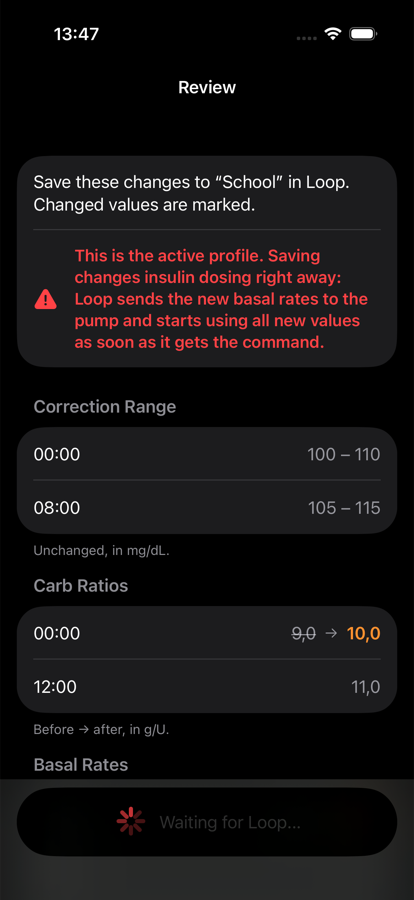
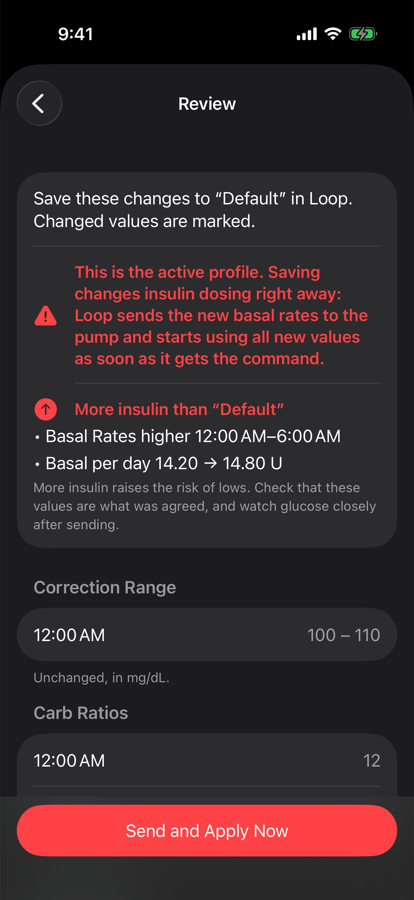
Describe the Remote Profiles screens as they are in LoopFollow, including scheduled switches

diff --git a/docs/remote/remote-profiles.md b/docs/remote/remote-profiles.md
@@ -1,14 +1,14 @@
 ## Remote Profiles
 
-With **Profiles** in *LoopFollow* you can look at the therapy profiles saved in *Loop* or *Trio*, choose which one is in use, and create, change, rename or delete profiles from the caregiver phone.
+With **Profiles** in *LoopFollow* you can look at the therapy profiles saved in *Loop* or *Trio*, choose which one is in use, create, change, rename or delete profiles, and change the weekly scheduled switches between them, all from the caregiver phone.
 
 !!! danger "Profiles change insulin dosing"
-    A profile holds the settings *Loop* or *Trio* uses to decide how much insulin to give. Activating a profile, or changing the profile that is in use, changes insulin dosing **right away**.
+    A profile holds the settings *Loop* or *Trio* uses to decide how much insulin to give. Activating a profile, changing the profile that is in use, or a scheduled switch changes insulin dosing **right away**.
 
-    This page explains how the feature works. It is not medical advice. Agree on each profile, and on any change to one, with the care team before you use it, and agree with the person using *Loop* or *Trio* (or their family) on who may make remote changes.
+    This page explains how the feature works. It is not medical advice. Agree on each profile, on any change to one, and on the scheduled switches with the care team before you use them, and agree with the person using *Loop* or *Trio* (or their family) on who may make remote changes.
 
 !!! info "In development"
-    Remote profile editing is new. It needs a *LoopFollow* version that includes it, and a *Loop* or *Trio* version that accepts the profile commands. See [What you need](#what-you-need).
+    Remote profile editing is new. It needs a *LoopFollow* version that includes it, and a *Loop* or *Trio* version with therapy profiles that accepts the profile commands. See [What you need](#what-you-need).
 
 ### Quick Access
 
@@ -21,6 +21,7 @@ With **Profiles** in *LoopFollow* you can look at the therapy profiles saved in 
 * [Rename a profile](#rename-a-profile)
 * [Delete a profile](#delete-a-profile)
 * [The review screen](#the-review-screen)
+* [Scheduled switches](#scheduled-switches)
 * [Replies, waiting and refusals](#replies-waiting-and-refusals)
 
 - - -
@@ -28,13 +29,14 @@ With **Profiles** in *LoopFollow* you can look at the therapy profiles saved in 
 ## Words used on this page
 
 * **Profile**: a named set of four settings. A profile could be called *School*, *Weekend* or *Sport*. Overrides, temp targets and the pre-meal range are **not** part of a profile.
-* **Correction range** (called *glucose targets* in *Trio*): the glucose range the app aims for. It is set as a low and a high value for each time of day.
+* **Correction range** (a single **glucose target** in *Trio*): the glucose level the app aims for. In *Loop* it is a low and a high value for each time of day; in *Trio* it is one value for each time of day.
 * **Carb ratio**: how many grams of carbohydrate one unit of insulin covers, in g/U. A smaller number means more insulin for the same meal.
 * **Basal rate**: the steady background insulin the pump gives through the day, in units per hour (U/hr). The basal rates are also stored on the pump.
 * **Insulin sensitivity factor (ISF)**: how far one unit of insulin is expected to lower glucose, in mg/dL/U or mmol/L/U. A smaller number means more insulin for the same correction.
-* **Time segment**: each setting can change during the day. Each row starts at a time (always on a full or half hour) and lasts until the next row. The first row always starts at 00:00 (midnight).
+* **Time segment**: each setting can change during the day. Each row starts at a time (always on a full or half hour) and lasts until the next row. The first row always starts at midnight.
 * **Active profile**: the profile *Loop* or *Trio* is dosing with right now. There is always exactly one.
 * **Default**: the profile that always exists. Before any other profile is made, Default is the active one and holds the settings that were already in the app. Default can be edited but not renamed or deleted.
+* **Scheduled switch**: a weekly start of a profile, for example *School starts every Monday at 7:00 AM*. The profile stays active until the next start.
 
 - - -
 
@@ -48,16 +50,16 @@ With **Profiles** in *LoopFollow* you can look at the therapy profiles saved in 
 
 ### For *Loop*
 
-* A *Loop* build with the therapy profiles feature. Today that is *Loop* `next-dev` with the **Profile Save & Load** customization (`profiles`), added with the Loop and Learn Customization Select script.
-    * An older build of the customization (for example on *Loop* 3.14) lets *LoopFollow* show and activate profiles, but not create, edit, rename or delete them.
+* A *Loop* version with therapy profiles (Settings → Profiles). Therapy profiles are not yet part of a released *Loop* version; they are proposed for *Loop*'s development branch.
+    * A *Loop* built with the older **Profile Save & Load** customization (added with the Loop and Learn Customization Select script) lets *LoopFollow* show and activate profiles, but not create, edit, rename or delete them, or change scheduled switches. See [Profiles Customization](https://www.loopandlearn.org/loop-features-in-development/#profiles).
 * Remote commands set up and working in *Loop* (the same set-up as remote carbs and bolus).
 * A pump connected in *Loop*, and a **maximum basal rate** set in *Loop*'s Therapy Settings.
 
-*Loop* tells *LoopFollow* which profile commands it accepts. If something is missing, the **Profiles** button is gray. Tapping it shows *Profiles Not Available* and the reason.
+*Loop* tells *LoopFollow* which profile commands it accepts. If it accepts none, the **Profiles** button is gray. Tapping it shows *Profiles Not Available* and the reason.
 
 ### For *Trio*
 
-* A *Trio* version with **Therapy Profiles** (under Settings → Therapy Settings → Therapy Profiles).
+* A *Trio* version with **Therapy Profiles** (Settings → Therapy Settings → Therapy Profiles). Therapy profiles are in *Trio*'s development branch (`dev`) since November 2026.
 * *Trio* Remote Control enabled on the *Trio* phone, with the same shared secret in *LoopFollow*.
 * A pump connected in *Trio*.
 
@@ -68,7 +70,7 @@ The **Profiles** button only appears on the *Trio* Remote Control screen when *T
 
 ### Limits from the app
 
-*Loop* and *Trio* upload the limits *LoopFollow* must follow: the allowed values for each setting, the basal rates the pump supports, the maximum basal rate and the glucose unit. Without these limits, *LoopFollow* only shows the profiles and explains why they can't be changed. The limits appear once a pump and a maximum basal rate are set up in *Loop* or *Trio*.
+*Loop* and *Trio* upload the limits *LoopFollow* must follow: the allowed values for each setting, the basal rates the pump supports, the maximum basal rate, the most time segments, and the glucose unit. Without these limits, *LoopFollow* only shows the profiles and explains why they can't be changed. *Loop* shares the limits once a pump and a maximum basal rate are set up in it.
 
 - - -
 
@@ -76,13 +78,24 @@ The **Profiles** button only appears on the *Trio* Remote Control screen when *T
 
 Open the *Loop* or *Trio* remote screen and tap **Profiles**.
 
-| Profile list | A profile |
+| Profile list | Scheduled switches |
 |:--:|:--:|
-| ![list of profiles](img/lf-profiles-list.png){width="300"} | ![a profile's values](img/lf-profiles-preview.png){width="300"} |
+| ![list of profiles](img/lf-profiles-list.png){width="300"} | ![scheduled switches under the profile list](img/lf-profiles-scheduled.png){width="300"} |
 
-* The list shows every profile. The one in use is marked **Active**.
+* **Profiles** lists every profile. The one in use is marked **Active**.
 * Below the list is the time *Loop* or *Trio* last uploaded the profiles to *Nightscout*. *LoopFollow* shows what was uploaded, so a change made on the looper's phone a moment ago may not be visible yet.
-* Tap a profile to see its correction range, carb ratios, basal rates (with the total per day) and insulin sensitivities, in the units the app uses.
+* **Scheduled Switches** shows the weekly starts. See [Scheduled switches](#scheduled-switches).
+* **New Profile** creates a profile. See [Create a profile](#create-a-profile).
+
+Tap a profile to see its correction range (or glucose target), carb ratios, basal rates (with the total per day) and insulin sensitivities, in the units the app uses. Glucose values in mmol/L are shown with one decimal.
+
+| A profile that is not active | Actions at the bottom |
+|:--:|:--:|
+| ![a profile's values with a more-insulin warning](img/lf-profiles-preview.png){width="300"} | ![rename and delete buttons](img/lf-profiles-preview-actions.png){width="300"} |
+
+If the profile would give more insulin than the active profile at some time of day, a red **More insulin than "..."** box lists where: for example higher basal rates, lower carb ratios, lower insulin sensitivities or a lower correction range, and the basal total per day.
+
+**Edit** (top right) opens the editor. **Rename Profile** and **Delete Profile** are at the bottom. **Activate Profile** is the large button.
 
 - - -
 
@@ -90,9 +103,12 @@ Open the *Loop* or *Trio* remote screen and tap **Profiles**.
 
 Activating a profile makes it the one *Loop* or *Trio* doses with.
 
-1. Tap the profile in the list to review its values.
-1. Tap **Activate Profile** and confirm.
-1. Confirm your identity with Face ID, Touch ID or your passcode. Only then is the command sent.
+1. Tap the profile in the list and check its values.
+1. Tap **Activate Profile**. A confirmation says what will happen. If scheduled switches are set up, it also says until when the profile stays active, and it repeats any more-insulin warning.
+1. Tap **Activate**, then confirm your identity with Face ID, Touch ID or your passcode. Only then is the command sent.
+
+![confirmation before activating a profile](img/lf-profiles-activate-confirm.png){width="300"}
+{align=center}
 
 On the looper's phone, the app checks the profile again. It then writes the profile's basal rates to the pump, and only after the pump has accepted them does it start using all four settings. If any step fails, for example because the pump can't be reached, nothing changes and you get a reply saying why.
 
@@ -104,11 +120,13 @@ The active profile's name is shown on the *Loop* status screen and on the *Trio*
 
 1. In the profile list, tap **New Profile**.
 1. Enter a name. A name can be up to 32 characters. It can't be "Default", can't contain a period (.), can't start with $, and must differ from the other profiles' names.
-1. Under **Start From**, choose the profile to copy. It starts as a copy of the active profile.
+1. Under **Start From**, choose the profile to copy. It starts as a copy of the active profile. Choosing another profile discards changes you made below.
 1. Change the values you have agreed on (see [Edit a profile](#edit-a-profile) for how the editor works).
-1. Tap **Review**, check everything, then tap **Send** and confirm your identity.
+1. Tap **Review**, check everything, then tap **Send to *Loop*** (or *Trio*), confirm, and confirm your identity.
 
 A new profile is only saved. Dosing does not change until the profile is activated.
+
+There can be at most 20 profiles, Default included. At 20, **New Profile** is unavailable until a profile is deleted.
 
 ![creating a new profile](img/lf-profiles-new.png){width="300"}
 {align=center}
@@ -119,34 +137,44 @@ A new profile is only saved. Dosing does not change until the profile is activat
 
 Open a profile and tap **Edit**.
 
-![editing a profile](img/lf-profiles-edit.png){width="300"}
-{align=center}
-
-* Each setting is a list of times. Tap a row to change its start time or value, tap **Add Time** to add a row, and swipe left on a row to remove it.
-* The values you can choose come from the limits *Loop* or *Trio* uploaded. Basal rates only offer the steps the pump supports, up to the maximum basal rate.
-* Values the app allows but considers unusual are shown in **orange** with "Unusual value. Double-check it with the care team's plan."
-* Values that are not allowed are shown in red, and the change can't be sent until they are fixed.
-* Under the list you see how many times are used out of the maximum.
-* Tap **Review** to continue. Nothing is sent before the review.
-
 !!! danger "Editing the active profile changes dosing immediately"
-    If you edit the profile that is active, *Loop* or *Trio* sends the new basal rates to the pump and starts using **all** the new values as soon as it gets the command. There is no separate "activate" step.
+    If you edit the profile that is active, a red warning is shown at the top. *Loop* or *Trio* sends the new basal rates to the pump and starts using **all** the new values as soon as it gets the command. There is no separate "activate" step.
 
     Editing a profile that is not active only changes the saved profile. Dosing does not change until that profile is activated.
+
+| The editor for the active profile | Changing a basal rate |
+|:--:|:--:|
+| ![editing the active profile](img/lf-profiles-edit.png){width="300"} | ![changing a basal rate with the picker](img/lf-profiles-edit-basal.png){width="300"} |
+
+* Each setting is a list of times. Tap a row to open pickers for its start time and value, and tap the row again to close them. Tap **Add Time** to add a row, and swipe left on a row to remove it. The first row always starts at midnight and can't be removed.
+* For *Trio*, each time has one **Glucose Target** value instead of a low and a high value.
+* The values you can choose come from the limits *Loop* or *Trio* uploaded. Under each setting you see what is allowed, and how many times are used out of the maximum. Basal rates only offer the steps the pump supports, up to the maximum basal rate, and show the total per day.
+* Values the app allows but considers unusual are shown in **orange** with *Unusual value. Double-check it.*
+* Values that are not allowed are shown in red with *Outside what is allowed. Change this value before sending.* Everything that must be fixed is also listed under **Fix Before Sending**, and **Review** stays unavailable until it is fixed.
+* Tap **Review** to continue. Nothing is sent before the review.
+
+| An unusual value | A *Trio* glucose target |
+|:--:|:--:|
+| ![an unusual carb ratio shown in orange](img/lf-profiles-edit-unusual.png){width="300"} | ![editing a Trio glucose target](img/lf-profiles-trio-target.png){width="300"} |
 
 - - -
 
 ## Rename a profile
 
-Open the profile and tap **Rename Profile**, enter the new name and tap **Review**. The values stay the same, and an active profile stays active. The Default profile can't be renamed.
+Open the profile, tap **Rename Profile**, enter the new name and tap **Review**. The review says *Rename "..." to "..."*. The values stay the same, so dosing does not change, and an active profile stays active. Scheduled switches follow the new name. The Default profile can't be renamed.
 
 - - -
 
 ## Delete a profile
 
-Open the profile, tap **Delete Profile** and confirm, then confirm your identity. A deleted profile can't be brought back from *LoopFollow*.
+Open the profile, tap **Delete Profile**, tap **Delete** in the confirmation, then confirm your identity. A deleted profile can't be brought back from *LoopFollow*.
 
-The active profile and the Default profile can't be deleted. To delete the active profile, first activate another one.
+If the profile is used by scheduled switches, the confirmation says so: those starts are removed too, and at those times the profile that was active before stays active until the next scheduled start.
+
+The active profile and the Default profile can't be deleted, so **Delete Profile** is not offered for them. To delete the active profile, first activate another one.
+
+![confirmation before deleting a profile](img/lf-profiles-delete-confirm.png){width="300"}
+{align=center}
 
 - - -
 
@@ -154,15 +182,57 @@ The active profile and the Default profile can't be deleted. To delete the activ
 
 Every create, edit and rename goes through **Review** before anything is sent.
 
-![reviewing a change to the active profile](img/lf-profiles-review-active.png){width="300"}
-{align=center}
+| Top of the review | The changes |
+|:--:|:--:|
+| ![reviewing a change to the active profile](img/lf-profiles-review-active.png){width="300"} | ![old and new values side by side](img/lf-profiles-review-diff.png){width="300"} |
 
-* A summary says what will happen: create, save changes to, or rename the profile.
-* If it is the **active** profile, a red warning says that dosing changes right away, and the button reads **Send and Apply Now**.
-* Each setting lists its times. Values that change are shown as old value, crossed out, then an arrow and the new value in orange. Unchanged settings say *Unchanged*.
-* **Sent to *Loop*** (or *Trio*) shows the name, the version of the profile the change is based on, the units, and **Exact values** with the data that will be sent.
+* A summary says what will happen: create the profile from the one it starts from, save changes to it, or rename it.
+* If it is the **active** profile, a red warning says that dosing changes right away, and the button reads **Send and Apply Now** in red. Otherwise it reads **Send to *Loop*** (or *Trio*).
+* If the change gives more insulin at some time of day, a red **More insulin than "..."** box lists where, compared with the profile before the change (or the profile a new one starts from).
+* Each setting lists its times. Changed values are shown as the old value crossed out, an arrow and the new value. A new value that gives more insulin is red; other changes are orange. Unchanged settings say *Unchanged*.
+* **Sent to *Loop*** (or *Trio*) shows the name, the old name for a rename, the version of the profile the change is based on, the units, and **Exact values** with the data that will be sent.
 * **Can't Send** lists anything that must be fixed first.
-* A remote command must fit in one push notification. If a profile has too many time segments to fit, *LoopFollow* says so and won't send it. Use fewer time segments, or make the change on the looper's phone.
+* A remote command must fit in one push notification. The footer shows the size of the command. If a profile has too many time segments to fit, *LoopFollow* says so and won't send it. Use fewer time segments, or make the change on the looper's phone.
+
+When you tap the send button, a confirmation repeats what will happen. After **Send**, *LoopFollow* first loads the profiles again from *Nightscout*. If the profile changed, disappeared, or became active or inactive while you were editing, nothing is sent and you are asked to review it again. Otherwise you confirm your identity, and the command is sent.
+
+- - -
+
+## Scheduled switches
+
+A scheduled switch starts a profile at the same time every week, for example *School* every Monday at 7:00 AM and *Weekend* every Saturday at 9:00 AM. The profile stays active until the next start, also when someone switches profile by hand in between.
+
+!!! warning "Scheduled switches change dosing without anyone looking"
+    At each start, *Loop* or *Trio* switches profile by itself, also when nobody is looking at the phone. Agree on the schedule, and on each profile in it, with the care team.
+
+The list of starts is under **Scheduled Switches** in the profile list (see [View profiles](#view-profiles)). Each start shows its day and time, the profile, and until when that profile stays active. Paused starts are gray. Below the list, *LoopFollow* says which start runs next and how many are paused. The times are in the profile's time zone; when that differs from the caregiver phone's, a note says so.
+
+### Pause or resume a start
+
+Swipe left on a start and tap **Pause** (or **Resume**). A review shows the change and the week after saving. Tap **Send to *Loop*** (or *Trio*), confirm, and confirm your identity.
+
+A paused start does not run until it is resumed. Nothing switches when a start is resumed; it runs again at its next time.
+
+| Swipe to pause | Review of the change |
+|:--:|:--:|
+| ![swiping left on a start shows Pause](img/lf-profiles-swipe-pause.png){width="300"} | ![review of a paused start](img/lf-profiles-scheduled-review.png){width="300"} |
+
+### Change the starts
+
+Tap **Edit Scheduled Switches**.
+
+| The starts | One start |
+|:--:|:--:|
+| ![the scheduled switches editor](img/lf-profiles-scheduled-editor.png){width="300"} | ![editing one start](img/lf-profiles-start-editor.png){width="300"} |
+
+* Tap a start to change its profile, day and time, to pause it, or to delete it with **Delete Start**. You can also swipe left on a start to delete it.
+* Tap **Add Start** to add one. There can be at most 14 starts.
+* Only one profile can start at a given day and time. Problems are listed under **Fix Before Sending**.
+* Tap **Review**. The review lists the changes (added, changed, removed, paused, resumed), the week after saving, and a red warning for each profile that would start and gives more insulin than Default.
+
+Saving the list switches nothing right away. The new starts run at their next times.
+
+Scheduled switches can only be viewed, not changed, when *Loop* or *Trio* hasn't said it accepts changes to them, or when *LoopFollow* could not read the uploaded list completely. A note under the list says why.
 
 - - -
 
@@ -170,7 +240,9 @@ Every create, edit and rename goes through **Review** before anything is sent.
 
 Only one profile command can be pending at a time. While *LoopFollow* waits, the button shows *Waiting for Loop...* (or *Trio*), and other profile buttons show *Another Profile Command Is Pending*.
 
-**Replies** come back as a notification and an alert, for example *Profile Activated*, *Profile Saved*, *Profile Deleted*, or *Profile Not Activated* / *Not Saved* / *Not Deleted* with the reason. *Loop* and *Trio* also post a note in *Nightscout*, and show a notification on the looper's phone.
+**Replies** come back as a notification and an alert: *Profile Activated*, *Profile Saved*, *Profile Deleted*, *Scheduled Switches Saved*, or *Profile Not Activated* / *Not Saved* / *Not Deleted* / *Scheduled Switches Not Saved* with the reason. *Loop* and *Trio* also post a note in *Nightscout*, and show a notification on the looper's phone.
+
+**Reply lost**: if the reply push doesn't arrive but the profiles *Loop* or *Trio* uploads to *Nightscout* show the change, *LoopFollow* reports the command as done and says that the reply did not arrive.
 
 **No reply**: if no reply arrives within 3 minutes, *LoopFollow* shows *No Reply From Loop* (or *Trio*). The change may still have been made. Pump communication and push notifications can be slow. Wait for the profile list to update before you send the command again.
 
@@ -178,17 +250,18 @@ Only one profile command can be pending at a time. While *LoopFollow* waits, the
 
 **Common refusals** (nothing is changed when a command is refused):
 
-* *The profile changed on the phone after it was uploaded.* Someone changed the profile on the looper's phone, or another caregiver changed it, after *LoopFollow* loaded it. *LoopFollow* closes the screen and loads the profiles again. Open the profile, check the current values, and make the change again if it is still needed.
-* *No profile named ...*: the profile was renamed or deleted on the phone.
-* *A profile named ... already exists*: choose another name.
-* *The active profile cannot be deleted* / *The Default profile cannot be deleted.*
+* The profile, or the list of scheduled switches, changed on the looper's phone after it was uploaded. Someone changed it on the looper's phone, or another caregiver changed it, after *LoopFollow* loaded it. *LoopFollow* closes the screen and loads the profiles again. Open the profile, check the current values, and make the change again if it is still needed.
+* The profile no longer exists: it was renamed or deleted on the phone.
+* A profile with the same name already exists: choose another name.
+* The active profile or the Default profile can't be deleted.
 * Values outside the limits, basal rates the pump doesn't support or above the maximum basal rate, or a correction range below *Loop*'s glucose safety limit.
+* Insulin delivery is suspended. Activating a profile or changing the active profile writes basal rates to the pump, which is refused while delivery is suspended. Changes to profiles that are not active still work.
 * Pump errors. The app writes the basal rates to the pump before anything else changes, so if the pump can't be reached, the profile is not activated or saved.
-* *Another profile change is in progress*: wait and try again. This also happens while therapy settings are being saved on the looper's phone.
+* Another profile change is in progress: wait and try again. This also happens while therapy settings are being saved on the looper's phone.
 
 For other remote command errors, see [Remote Command Errors](remote-command-errors.md).
 
 !!! tip "Good practice"
     * Agree with the looper (or their family) when remote profile changes are OK, and tell them when you make one.
-    * After a change, check that the profile list shows the new values and the expected active profile, and keep an eye on glucose afterwards.
-    * Keep the care team's plan for each profile at hand. *LoopFollow* checks that values are within the app's limits, not that they are right for the person.
+    * After a change, check that the profile list shows the new values and the expected active profile, and keep an eye on the glucose afterwards.
+    * Keep the care team's plan for each profile, and for the scheduled switches, at hand. *LoopFollow* checks that values are within the app's limits, not that they are right for the person.

diff --git a/docs/remote/remote-control-loop.md b/docs/remote/remote-control-loop.md
@@ -183,9 +183,9 @@ While an override is active, it is listed in an **Active Override** section with
 
 !!! info "Available in *LoopFollow* 8.0 and newer"
 
-The **Profiles** button opens the profiles saved in *Loop*. Depending on the *Loop* build, you can review and activate them, and with the current profiles customization also create, edit, rename and delete them.
+The **Profiles** button opens the profiles saved in *Loop*. With a *Loop* that has therapy profiles, you can review, activate, create, edit, rename and delete them, and change the weekly scheduled switches. With a *Loop* built with the older Profile Save & Load customization, you can only review and activate them.
 
-Activating a profile, or editing the active profile, changes insulin dosing right away. Agree on profiles and any change to them with the care team.
+Activating a profile, editing the active profile, or a scheduled switch changes insulin dosing right away. Agree on profiles and any change to them with the care team.
 
 See [Remote Profiles](remote-profiles.md) for how it works, what *Loop* needs, and what the replies mean.
 

diff --git a/docs/remote/remote-control-trio.md b/docs/remote/remote-control-trio.md
@@ -195,9 +195,9 @@ Tap a preset to activate it; a confirmation is shown before the command is sent.
 
 ### Profiles
 
-When *Trio* has Therapy Profiles and accepts profile commands, a **Profiles** button appears on this screen. From there you can review, activate, create, edit, rename and delete the profiles saved in *Trio*.
+When *Trio* has Therapy Profiles and accepts profile commands, a **Profiles** button appears on this screen. From there you can review, activate, create, edit, rename and delete the profiles saved in *Trio*, and change the weekly scheduled switches.
 
-Activating a profile, or editing the active profile, changes insulin dosing right away. Agree on profiles and any change to them with the care team.
+Activating a profile, editing the active profile, or a scheduled switch changes insulin dosing right away. Agree on profiles and any change to them with the care team.
 
 See [Remote Profiles](remote-profiles.md) for how it works, what *Trio* needs, and what the replies mean.
 
